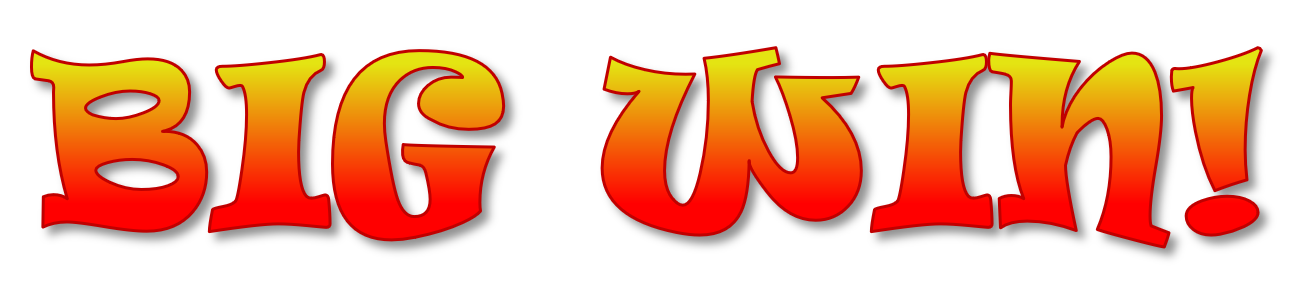
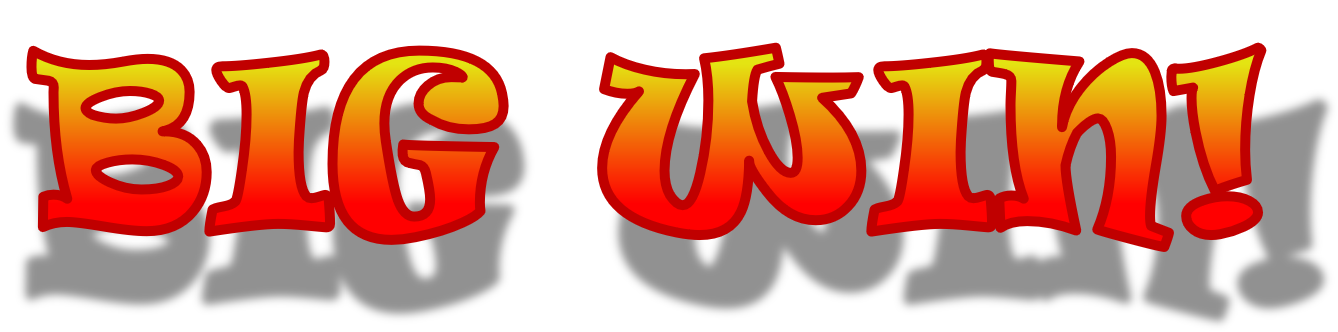
loading ym.

diff --git a/hedelma.js b/hedelma.js
@@ -70,13 +70,22 @@ function taustaMusa() {
         musiikkiSoi = false;
       
     } else {
-        bigwin.innerHTML = '';
+        voittoTeksti.innerHTML = '';
         audio = new Audio('sounds/tausta.mp3');
         audio.loop = true;
         audio.play();
         musiikkiSoi = true;
     }
 }
+
+// latausikkuna
+window.addEventListener('load', function() {
+    
+    setTimeout(function() {
+      const loadingScreen = document.querySelector('.latausikkuna');
+      loadingScreen.style.display = 'none';
+    }, 1500);
+  });
 
 
 
@@ -92,7 +101,7 @@ const naytaUusipanos = document.getElementById('panos');
 let voitto = 0;
 const naytaVoitto = document.getElementById('voitto');
 
-let voittoTeksti = document.getElementById('voittoTeksti');
+let voittoTeksti = document.getElementById('peli-ilmoitus');
 
 const lukitseNappi1 = document.getElementById('lukitse1');
 lukitseNappi1.disabled = true;
@@ -119,17 +128,17 @@ panosSuuremmalle.addEventListener('click', suurennaPanosta);
 
 // iso voitto funktio
 
-const bigwin = document.getElementById('iso-voitto');
+let bigwin = document.getElementById('iso-voitto');
 
-// iso voitto objektiksi
-const isovoittokuva = {
-    html: "<img src='pelikuvat/isovoitto.png' class='iso-voitto'>",
-    arvo: 10
-};
+
+const isovoittokuva = "<img src='pelikuvat/isovoitto.png' class='iso-voitto'>";
+    
+   
+
 
 function isovoitto(){
 
-    bigwin.innerHTML = isovoittokuva.html;
+    bigwin.innerHTML = isovoittokuva;
     isoVoittoaani();
     
 
@@ -160,6 +169,8 @@ function suljeModaali() {
 
 // pääohjelma
 async function pelikierros() {
+    bigwin.innerHTML = '';
+
     voitto = 0;
     naytaUusiVoitto();
 
@@ -485,7 +496,7 @@ function rullatPyorii() {
    
    
     
-    bigwin.innerHTML = '';
+   
     voittoTeksti.innerHTML = '';
     voitto = 0;
 

diff --git a/hedelma.css b/hedelma.css
@@ -369,20 +369,29 @@ body{
 
     .peli-ilmoitus{
         position: absolute;
-        width: 100%;
-        top: 20%;
-        height: 50px;
+        width: 70%;
+        top: 7%;
+        height: 100px;
         margin: 0 auto;
+        left: 0;
+        right: 0;
+        color: white;
         font-family: inherit;
         font-weight: bold;
-   
+        animation: laajeneva 2s ease-out forwards;
+        animation-delay: 1600ms;
+        z-index: 500;
+        opacity: 0;
+        
     }
     @keyframes laajeneva {
         0% {
             width: 0;
+           
         }
         100% {
             width: 70%;
+            opacity: 1;
         }
     }
 
@@ -497,6 +506,47 @@ body{
         position:relative;
         margin: 0px auto;
         top: 35%;
+      }
+
+
+      .latausikkuna {
+        position:absolute;
+        top: 0;
+        left: 0;
+        width: 100%;
+        height: 100%;
+        background-color: rgba(0, 0, 0, 0.8);
+        display: flex;
+        justify-content: center;
+        align-items: center;
+        color: white;
+        z-index: 9999;
+      }
+      
+      .loading-rinkula {
+        border: 4px solid #f3f3f3;
+        border-top: 4px solid rgb(9, 133, 0);
+        border-radius: 50%;
+        width: 50px;
+        height: 50px;
+        animation: spin 2s linear infinite;
+        
+      }
+      
+      @keyframes spin {
+        0% { transform: rotate(0deg); }
+        100% { transform: rotate(180deg); }
+      }
+      
+      .loading-teksti {
+        font-size: 15px;
+        font-family: inherit;
+        font-weight: bold;
+        position: absolute;
+        top: calc(50% + 25px);
+        left: 51%;
+        transform: translateX(-50%);
+        text-align: center;
       }
   
 

diff --git a/hedelma.html b/hedelma.html
@@ -33,6 +33,7 @@
             </ul>
         </nav>
 
+        
        
 
     <div id="mobiilivalikko" class="mobiilivalikko">
@@ -56,6 +57,13 @@
         
         
         <div class="pelikone-container" id="pelikone-container">
+
+            <div class="latausikkuna">
+                <div class="loading-rinkula"></div>
+               
+                <div class="loading-teksti">Loading...</div>
+              </div>
+    
             
             <div class="peliohjeet" id="peliohjeet" onclick="suljeVoitot()">
                 <img src="pelikuvat/wins.png" width="200" style="margin-top: 50px;"  alt="Voittotaulukko">
@@ -96,8 +104,9 @@
             
 
             <div id="voittoTeksti" class="peli-ilmoitus"> </div>
+            <div id="iso-voitto" class="iso-voitto"> </div>
             
-            <div id="iso-voitto" class="iso-voitto"> <img src="pelikuvat/musakuva.png" class="musakuva" alt="musatpäälle"> </div>
+            <div id="peli-ilmoitus" class="peli-ilmoitus"> <img src="pelikuvat/musakuva.png" class="musakuva" alt="musatpäälle"> </div>
 
         
             <img  class="peli-otsikko" id="peli-otsikko" width="100%" src="pelikuvat/otsikko2.png" alt="logo" >
